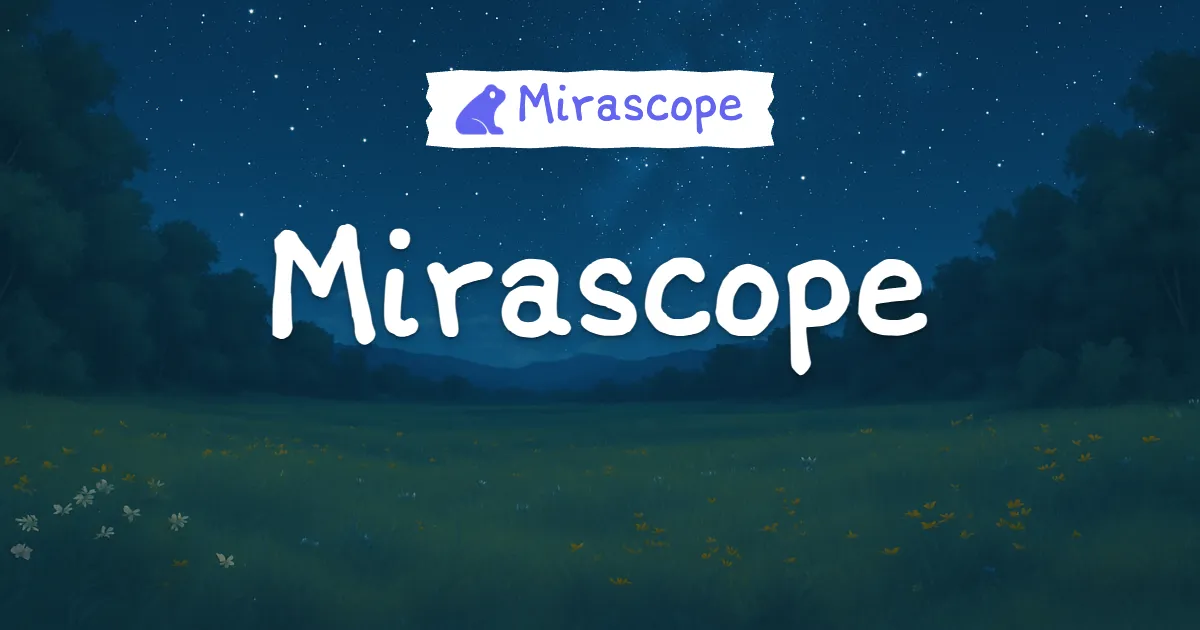
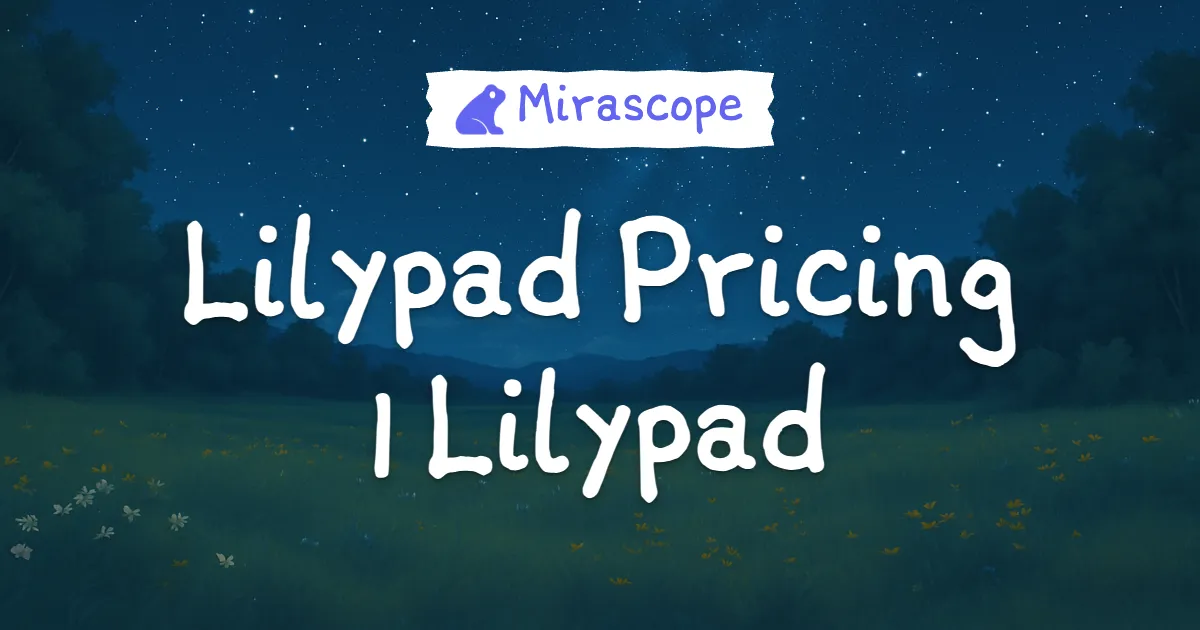
fix: pricing page has SEO metadata

Changed region(s): [[0.1542, 0.3317, 0.8633, 0.8143]]

diff --git a/src/routes/pricing.tsx b/src/routes/pricing.tsx
@@ -3,6 +3,7 @@ import { Check, Info, X } from "lucide-react";
 import { Tabs, TabsList, TabsTrigger, TabsContent } from "@/components/ui/tabs";
 import { Tooltip, TooltipContent, TooltipTrigger } from "@/components/ui/tooltip";
 import { cn } from "@/lib/utils";
+import useSEO from "@/lib/hooks/useSEO";
 
 export const Route = createFileRoute("/pricing")({
   component: PricingPage,
@@ -125,6 +126,14 @@ const PricingTier = ({
 );
 
 function PricingPage() {
+  // Set SEO metadata
+  useSEO({
+    title: "Lilypad Pricing",
+    description: "Lilypad's pricing plans and features",
+    product: "lilypad",
+    url: "/pricing",
+  });
+
   // Cloud hosted features
   const cloudHostedFeatures = [
     { feature: "Projects", free: "Unlimited", pro: "Unlimited" },
